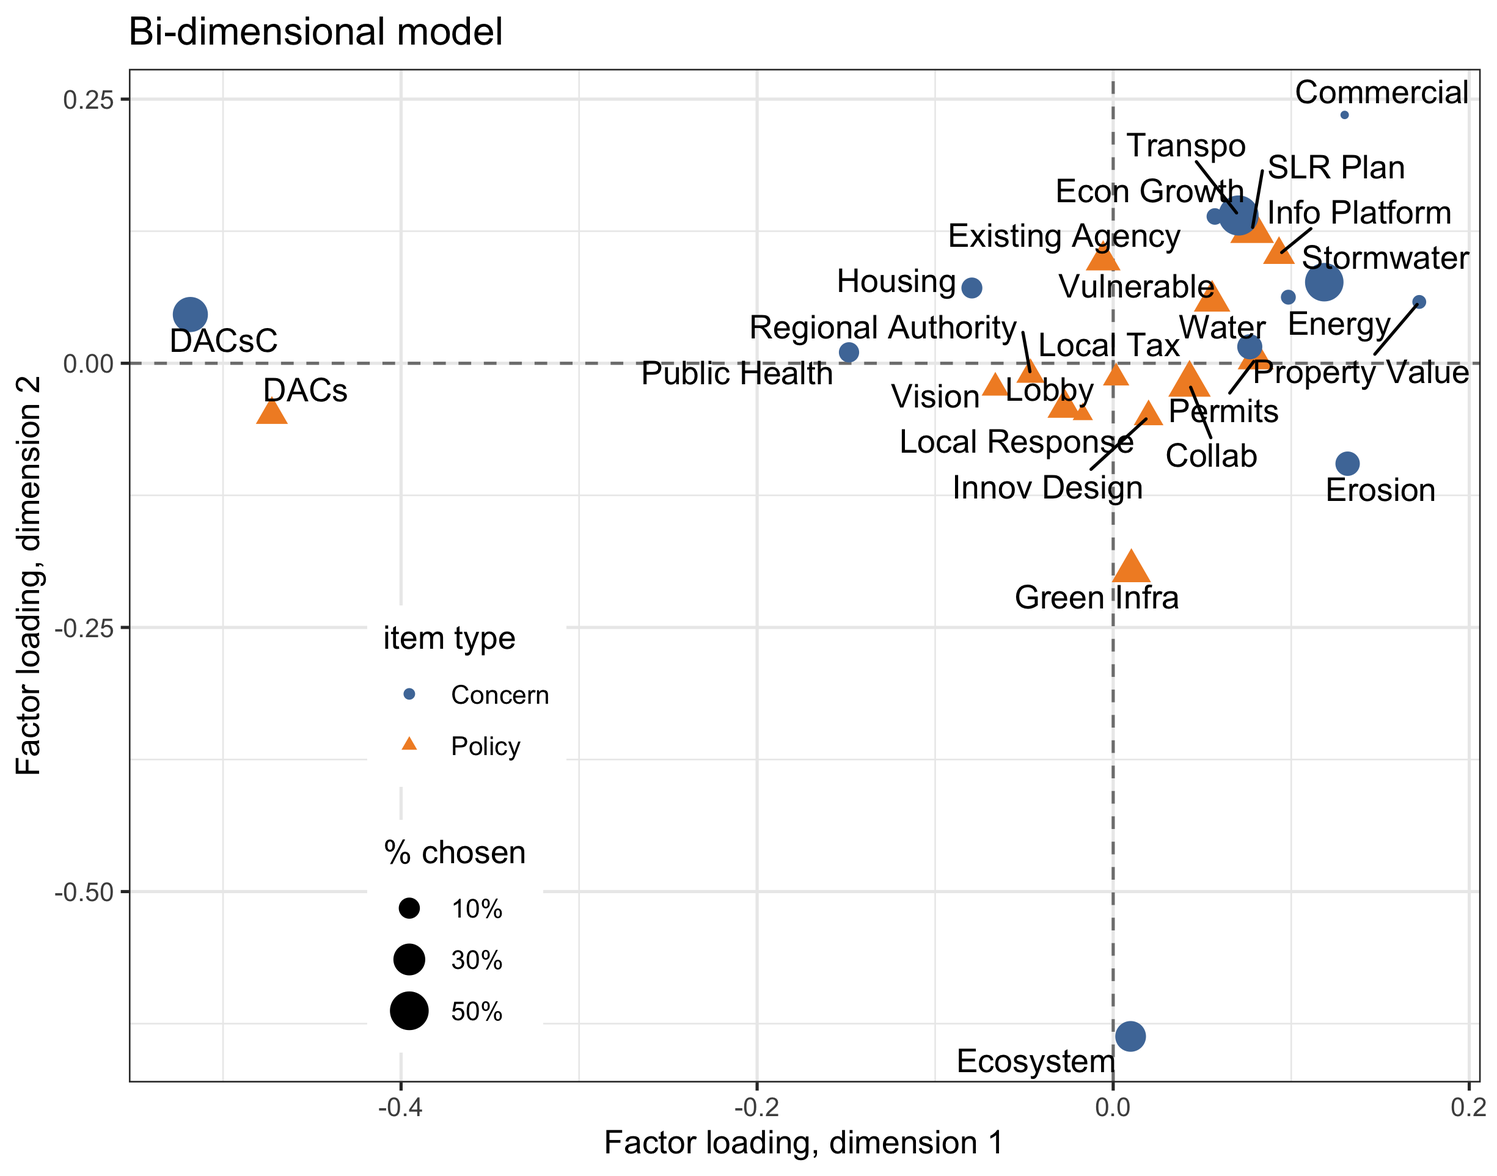
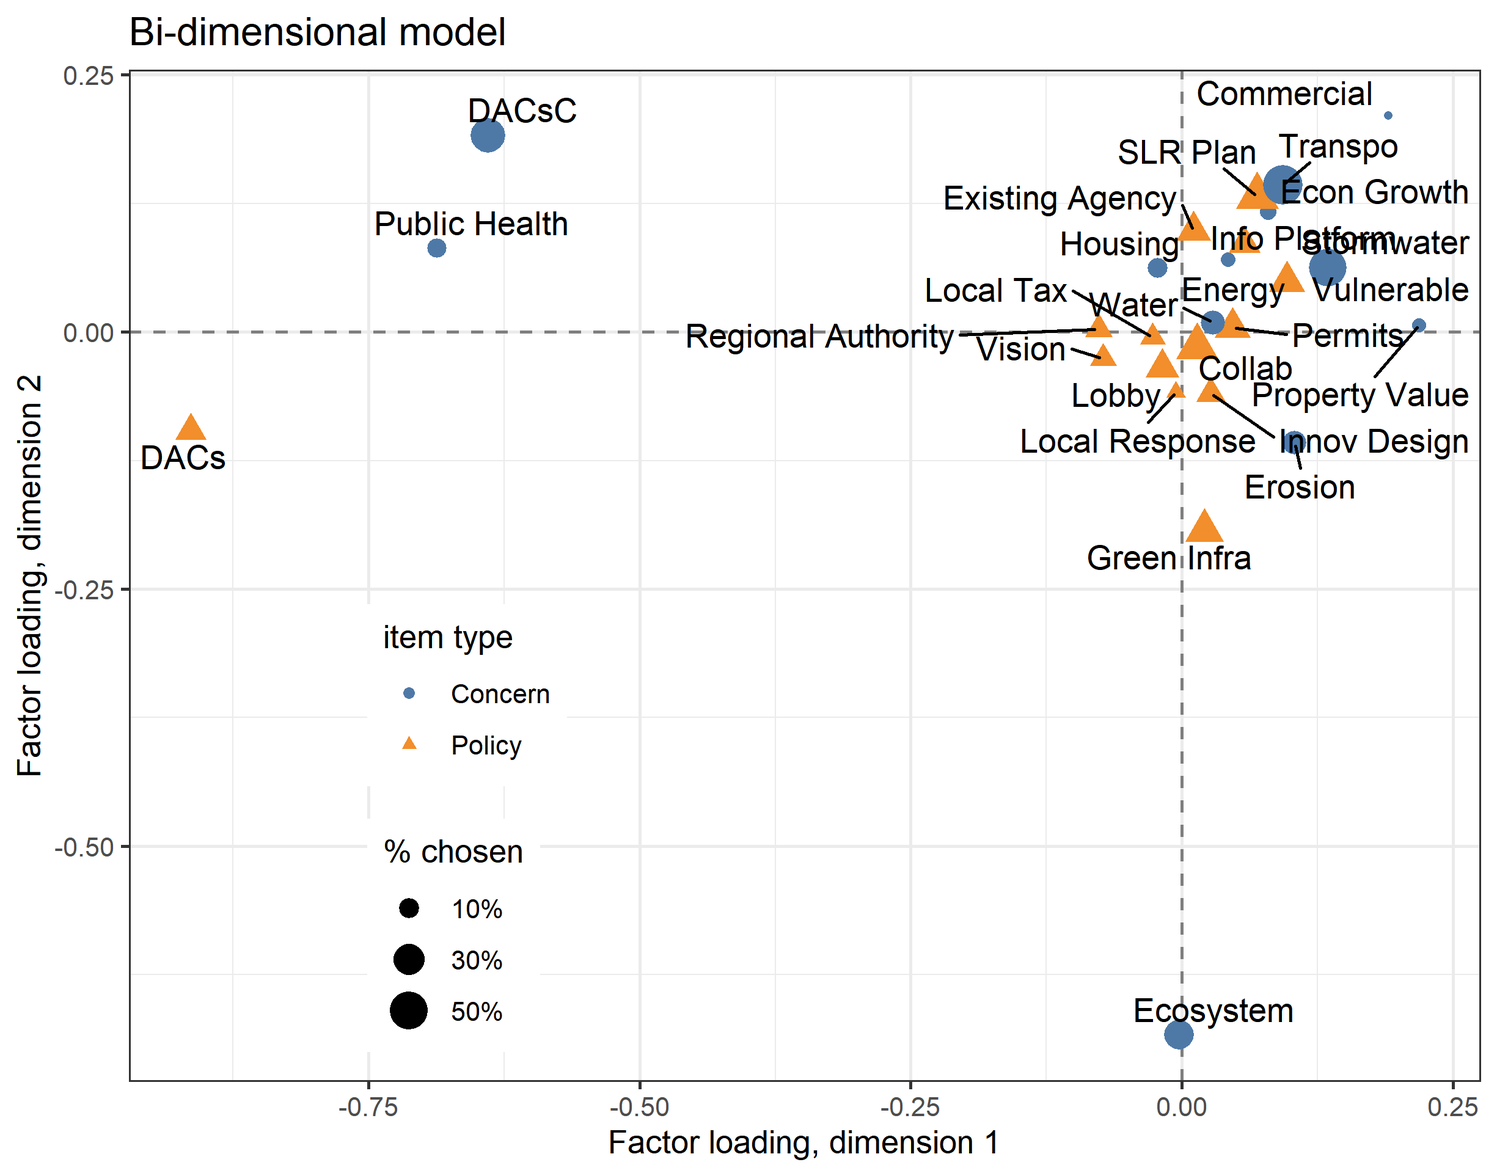
New SEM with 2 latent variables and all actor types

diff --git a/output/tables/sem_model_10-18.html b/output/tables/sem_model_10-18.html
@@ -1,0 +1,177 @@
+<table style="padding-right:20px;padding-left:20px;">
+<tr><td></td><td colspan = '4'; align = 'center'>Model</td></tr> 
+<tr><td></td><td colspan = '1'; align = 'center'>Estimate</td><td colspan = '1'; align = 'center'>Std. Err.</td><td colspan = '1'; align = 'center'>z</td><td colspan = '1'; align = 'center'>p</td></tr>
+<tr><td></td><td colspan = '4'; align = 'center'><span style="text-decoration: underline;">Factor Loadings</span></td></tr> <tr><td colspan = '1'; align = 'left'><span style="text-decoration: underline;">Engagement</span></td></tr>
+<tr><td>Q32.InfoTypes</td><td>1.00<sup>+</sup></td><td></td><td></td><td></td></tr>
+<tr><td>Q1.Focus</td><td>0.57</td><td>0.05</td><td>10.40</td><td>.000</td></tr>
+<tr><td>Q11.STAware</td><td>0.45</td><td>0.04</td><td>12.35</td><td>.000</td></tr>
+<tr><td>Q11.LTAware</td><td>0.43</td><td>0.04</td><td>12.18</td><td>.000</td></tr>
+<tr><td>Q19.Sum</td><td>1.05</td><td>0.10</td><td>10.50</td><td>.000</td></tr>
+ <tr><td colspan = '1'; align = 'left'><span style="text-decoration: underline;">Concern</span></td></tr>
+<tr><td>Q12.STConcern</td><td>1.00<sup>+</sup></td><td></td><td></td><td></td></tr>
+<tr><td>Q12.LTConcern</td><td>0.53</td><td>0.06</td><td>8.28</td><td>.000</td></tr>
+<tr><td>When.SLR</td><td>0.95</td><td>0.12</td><td>8.17</td><td>.000</td></tr>
+<tr><td></td><td colspan = '4'; align = 'center'><span style="text-decoration: underline;">Regression Slopes</span></td></tr> <tr><td colspan = '1'; align = 'left'><span style="text-decoration: underline;">F1</span></td></tr>
+<tr><td>Engagement</td><td>0.00</td><td>0.03</td><td>0.02</td><td>.980</td></tr>
+<tr><td>Concern</td><td>-0.24</td><td>0.08</td><td>-2.85</td><td>.004</td></tr>
+<tr><td>Q4.CBO</td><td>-0.88</td><td>0.32</td><td>-2.75</td><td>.006</td></tr>
+<tr><td>Q4.NGO</td><td>-0.45</td><td>0.12</td><td>-3.58</td><td>.000</td></tr>
+<tr><td>Q4.Fed</td><td>-0.08</td><td>0.19</td><td>-0.42</td><td>.674</td></tr>
+<tr><td>Q4.State</td><td>-0.21</td><td>0.14</td><td>-1.49</td><td>.137</td></tr>
+<tr><td>Q4.RegGov</td><td>0.08</td><td>0.21</td><td>0.38</td><td>.704</td></tr>
+<tr><td>Q4.EnviroSD</td><td>0.20</td><td>0.30</td><td>0.66</td><td>.506</td></tr>
+<tr><td>Q4.WaterSD</td><td>0.01</td><td>0.26</td><td>0.05</td><td>.960</td></tr>
+<tr><td>Q4.Ed</td><td>-0.20</td><td>0.12</td><td>-1.63</td><td>.104</td></tr>
+<tr><td>Q4.Multijuris</td><td>0.59</td><td>0.93</td><td>0.63</td><td>.526</td></tr>
+<tr><td>Q4.Multistake</td><td>-0.09</td><td>0.39</td><td>-0.23</td><td>.821</td></tr>
+<tr><td>Q4.Political</td><td>-0.48</td><td>0.93</td><td>-0.52</td><td>.605</td></tr>
+<tr><td>Q4.Trade</td><td>-0.05</td><td>0.18</td><td>-0.26</td><td>.793</td></tr>
+<tr><td>Q4.Enviro</td><td>-0.11</td><td>0.17</td><td>-0.64</td><td>.522</td></tr>
+<tr><td>OtherActorType</td><td>-0.06</td><td>0.11</td><td>-0.54</td><td>.591</td></tr>
+ <tr><td colspan = '1'; align = 'left'><span style="text-decoration: underline;">F2</span></td></tr>
+<tr><td>Engagement</td><td>-0.05</td><td>0.02</td><td>-2.38</td><td>.017</td></tr>
+<tr><td>Concern</td><td>-0.10</td><td>0.06</td><td>-1.68</td><td>.092</td></tr>
+<tr><td>Q4.CBO</td><td>-0.06</td><td>0.24</td><td>-0.25</td><td>.799</td></tr>
+<tr><td>Q4.NGO</td><td>-0.28</td><td>0.09</td><td>-3.02</td><td>.003</td></tr>
+<tr><td>Q4.Fed</td><td>-0.56</td><td>0.14</td><td>-3.95</td><td>.000</td></tr>
+<tr><td>Q4.State</td><td>0.05</td><td>0.11</td><td>0.48</td><td>.628</td></tr>
+<tr><td>Q4.RegGov</td><td>0.10</td><td>0.15</td><td>0.66</td><td>.509</td></tr>
+<tr><td>Q4.EnviroSD</td><td>-0.55</td><td>0.23</td><td>-2.42</td><td>.016</td></tr>
+<tr><td>Q4.WaterSD</td><td>-0.20</td><td>0.19</td><td>-1.01</td><td>.313</td></tr>
+<tr><td>Q4.Ed</td><td>-0.08</td><td>0.09</td><td>-0.88</td><td>.380</td></tr>
+<tr><td>Q4.Multijuris</td><td>0.04</td><td>0.69</td><td>0.06</td><td>.952</td></tr>
+<tr><td>Q4.Multistake</td><td>-0.05</td><td>0.29</td><td>-0.16</td><td>.873</td></tr>
+<tr><td>Q4.Political</td><td>0.53</td><td>0.69</td><td>0.76</td><td>.448</td></tr>
+<tr><td>Q4.Trade</td><td>-0.07</td><td>0.14</td><td>-0.52</td><td>.601</td></tr>
+<tr><td>Q4.Enviro</td><td>-0.17</td><td>0.13</td><td>-1.34</td><td>.180</td></tr>
+<tr><td>OtherActorType</td><td>-0.03</td><td>0.08</td><td>-0.42</td><td>.674</td></tr>
+<tr><td></td><td colspan = '4'; align = 'center'><span style="text-decoration: underline;">Residual Variances</span></td></tr>
+<tr><td>Q32.InfoTypes</td><td>6.65</td><td>0.38</td><td>17.58</td><td>.000</td></tr>
+<tr><td>Q1.Focus</td><td>1.45</td><td>0.08</td><td>17.04</td><td>.000</td></tr>
+<tr><td>Q11.STAware</td><td>0.17</td><td>0.02</td><td>9.59</td><td>.000</td></tr>
+<tr><td>Q11.LTAware</td><td>0.23</td><td>0.02</td><td>12.22</td><td>.000</td></tr>
+<tr><td>Q19.Sum</td><td>4.78</td><td>0.28</td><td>16.96</td><td>.000</td></tr>
+<tr><td>Q12.STConcern</td><td>0.34</td><td>0.04</td><td>8.01</td><td>.000</td></tr>
+<tr><td>Q12.LTConcern</td><td>0.25</td><td>0.02</td><td>14.14</td><td>.000</td></tr>
+<tr><td>When.SLR</td><td>0.91</td><td>0.06</td><td>14.80</td><td>.000</td></tr>
+<tr><td>F1</td><td>0.86</td><td>0.05</td><td>18.43</td><td>.000</td></tr>
+<tr><td>F2</td><td>0.48</td><td>0.03</td><td>18.56</td><td>.000</td></tr>
+<tr><td>Q4.CBO</td><td>0.01<sup>+</sup></td><td></td><td></td><td></td></tr>
+<tr><td>Q4.NGO</td><td>0.12<sup>+</sup></td><td></td><td></td><td></td></tr>
+<tr><td>Q4.Fed</td><td>0.04<sup>+</sup></td><td></td><td></td><td></td></tr>
+<tr><td>Q4.State</td><td>0.08<sup>+</sup></td><td></td><td></td><td></td></tr>
+<tr><td>Q4.RegGov</td><td>0.03<sup>+</sup></td><td></td><td></td><td></td></tr>
+<tr><td>Q4.EnviroSD</td><td>0.01<sup>+</sup></td><td></td><td></td><td></td></tr>
+<tr><td>Q4.WaterSD</td><td>0.02<sup>+</sup></td><td></td><td></td><td></td></tr>
+<tr><td>Q4.Ed</td><td>0.11<sup>+</sup></td><td></td><td></td><td></td></tr>
+<tr><td>Q4.Multijuris</td><td>0.00<sup>+</sup></td><td></td><td></td><td></td></tr>
+<tr><td>Q4.Multistake</td><td>0.01<sup>+</sup></td><td></td><td></td><td></td></tr>
+<tr><td>Q4.Political</td><td>0.00<sup>+</sup></td><td></td><td></td><td></td></tr>
+<tr><td>Q4.Trade</td><td>0.04<sup>+</sup></td><td></td><td></td><td></td></tr>
+<tr><td>Q4.Enviro</td><td>0.05<sup>+</sup></td><td></td><td></td><td></td></tr>
+<tr><td>OtherActorType</td><td>0.17<sup>+</sup></td><td></td><td></td><td></td></tr>
+<tr><td></td><td colspan = '4'; align = 'center'><span style="text-decoration: underline;">Residual Covariances</span></td></tr>
+<tr><td>F1 w/F2</td><td>-0.12</td><td>0.02</td><td>-4.64</td><td>.000</td></tr>
+<tr><td>Q4.CBO w/Q4.NGO</td><td>-0.00<sup>+</sup></td><td></td><td></td><td></td></tr>
+<tr><td>Q4.CBO w/Q4.Fed</td><td>-0.00<sup>+</sup></td><td></td><td></td><td></td></tr>
+<tr><td>Q4.CBO w/Q4.State</td><td>-0.00<sup>+</sup></td><td></td><td></td><td></td></tr>
+<tr><td>Q4.CBO w/Q4.RegGov</td><td>-0.00<sup>+</sup></td><td></td><td></td><td></td></tr>
+<tr><td>Q4.CBO w/Q4.EnviroSD</td><td>-0.00<sup>+</sup></td><td></td><td></td><td></td></tr>
+<tr><td>Q4.CBO w/Q4.WaterSD</td><td>-0.00<sup>+</sup></td><td></td><td></td><td></td></tr>
+<tr><td>Q4.CBO w/Q4.Ed</td><td>-0.00<sup>+</sup></td><td></td><td></td><td></td></tr>
+<tr><td>Q4.CBO w/Q4.Multijuris</td><td>-0.00<sup>+</sup></td><td></td><td></td><td></td></tr>
+<tr><td>Q4.CBO w/Q4.Multistake</td><td>-0.00<sup>+</sup></td><td></td><td></td><td></td></tr>
+<tr><td>Q4.CBO w/Q4.Political</td><td>-0.00<sup>+</sup></td><td></td><td></td><td></td></tr>
+<tr><td>Q4.CBO w/Q4.Trade</td><td>-0.00<sup>+</sup></td><td></td><td></td><td></td></tr>
+<tr><td>Q4.CBO w/Q4.Enviro</td><td>-0.00<sup>+</sup></td><td></td><td></td><td></td></tr>
+<tr><td>Q4.CBO w/OtherActorType</td><td>-0.00<sup>+</sup></td><td></td><td></td><td></td></tr>
+<tr><td>Q4.NGO w/Q4.Fed</td><td>-0.01<sup>+</sup></td><td></td><td></td><td></td></tr>
+<tr><td>Q4.NGO w/Q4.State</td><td>-0.01<sup>+</sup></td><td></td><td></td><td></td></tr>
+<tr><td>Q4.NGO w/Q4.RegGov</td><td>-0.00<sup>+</sup></td><td></td><td></td><td></td></tr>
+<tr><td>Q4.NGO w/Q4.EnviroSD</td><td>-0.00<sup>+</sup></td><td></td><td></td><td></td></tr>
+<tr><td>Q4.NGO w/Q4.WaterSD</td><td>-0.00<sup>+</sup></td><td></td><td></td><td></td></tr>
+<tr><td>Q4.NGO w/Q4.Ed</td><td>-0.02<sup>+</sup></td><td></td><td></td><td></td></tr>
+<tr><td>Q4.NGO w/Q4.Multijuris</td><td>-0.00<sup>+</sup></td><td></td><td></td><td></td></tr>
+<tr><td>Q4.NGO w/Q4.Multistake</td><td>-0.00<sup>+</sup></td><td></td><td></td><td></td></tr>
+<tr><td>Q4.NGO w/Q4.Political</td><td>-0.00<sup>+</sup></td><td></td><td></td><td></td></tr>
+<tr><td>Q4.NGO w/Q4.Trade</td><td>-0.01<sup>+</sup></td><td></td><td></td><td></td></tr>
+<tr><td>Q4.NGO w/Q4.Enviro</td><td>-0.01<sup>+</sup></td><td></td><td></td><td></td></tr>
+<tr><td>Q4.NGO w/OtherActorType</td><td>-0.03<sup>+</sup></td><td></td><td></td><td></td></tr>
+<tr><td>Q4.Fed w/Q4.State</td><td>-0.00<sup>+</sup></td><td></td><td></td><td></td></tr>
+<tr><td>Q4.Fed w/Q4.RegGov</td><td>-0.00<sup>+</sup></td><td></td><td></td><td></td></tr>
+<tr><td>Q4.Fed w/Q4.EnviroSD</td><td>-0.00<sup>+</sup></td><td></td><td></td><td></td></tr>
+<tr><td>Q4.Fed w/Q4.WaterSD</td><td>-0.00<sup>+</sup></td><td></td><td></td><td></td></tr>
+<tr><td>Q4.Fed w/Q4.Ed</td><td>-0.01<sup>+</sup></td><td></td><td></td><td></td></tr>
+<tr><td>Q4.Fed w/Q4.Multijuris</td><td>-0.00<sup>+</sup></td><td></td><td></td><td></td></tr>
+<tr><td>Q4.Fed w/Q4.Multistake</td><td>-0.00<sup>+</sup></td><td></td><td></td><td></td></tr>
+<tr><td>Q4.Fed w/Q4.Political</td><td>-0.00<sup>+</sup></td><td></td><td></td><td></td></tr>
+<tr><td>Q4.Fed w/Q4.Trade</td><td>-0.00<sup>+</sup></td><td></td><td></td><td></td></tr>
+<tr><td>Q4.Fed w/Q4.Enviro</td><td>-0.00<sup>+</sup></td><td></td><td></td><td></td></tr>
+<tr><td>Q4.Fed w/OtherActorType</td><td>-0.01<sup>+</sup></td><td></td><td></td><td></td></tr>
+<tr><td>Q4.State w/Q4.RegGov</td><td>-0.00<sup>+</sup></td><td></td><td></td><td></td></tr>
+<tr><td>Q4.State w/Q4.EnviroSD</td><td>-0.00<sup>+</sup></td><td></td><td></td><td></td></tr>
+<tr><td>Q4.State w/Q4.WaterSD</td><td>-0.00<sup>+</sup></td><td></td><td></td><td></td></tr>
+<tr><td>Q4.State w/Q4.Ed</td><td>-0.01<sup>+</sup></td><td></td><td></td><td></td></tr>
+<tr><td>Q4.State w/Q4.Multijuris</td><td>-0.00<sup>+</sup></td><td></td><td></td><td></td></tr>
+<tr><td>Q4.State w/Q4.Multistake</td><td>-0.00<sup>+</sup></td><td></td><td></td><td></td></tr>
+<tr><td>Q4.State w/Q4.Political</td><td>-0.00<sup>+</sup></td><td></td><td></td><td></td></tr>
+<tr><td>Q4.State w/Q4.Trade</td><td>-0.00<sup>+</sup></td><td></td><td></td><td></td></tr>
+<tr><td>Q4.State w/Q4.Enviro</td><td>-0.00<sup>+</sup></td><td></td><td></td><td></td></tr>
+<tr><td>Q4.State w/OtherActorType</td><td>-0.02<sup>+</sup></td><td></td><td></td><td></td></tr>
+<tr><td>Q4.RegGov w/Q4.EnviroSD</td><td>-0.00<sup>+</sup></td><td></td><td></td><td></td></tr>
+<tr><td>Q4.RegGov w/Q4.WaterSD</td><td>-0.00<sup>+</sup></td><td></td><td></td><td></td></tr>
+<tr><td>Q4.RegGov w/Q4.Ed</td><td>-0.00<sup>+</sup></td><td></td><td></td><td></td></tr>
+<tr><td>Q4.RegGov w/Q4.Multijuris</td><td>-0.00<sup>+</sup></td><td></td><td></td><td></td></tr>
+<tr><td>Q4.RegGov w/Q4.Multistake</td><td>-0.00<sup>+</sup></td><td></td><td></td><td></td></tr>
+<tr><td>Q4.RegGov w/Q4.Political</td><td>-0.00<sup>+</sup></td><td></td><td></td><td></td></tr>
+<tr><td>Q4.RegGov w/Q4.Trade</td><td>-0.00<sup>+</sup></td><td></td><td></td><td></td></tr>
+<tr><td>Q4.RegGov w/Q4.Enviro</td><td>-0.00<sup>+</sup></td><td></td><td></td><td></td></tr>
+<tr><td>Q4.RegGov w/OtherActorType</td><td>-0.01<sup>+</sup></td><td></td><td></td><td></td></tr>
+<tr><td>Q4.EnviroSD w/Q4.WaterSD</td><td>-0.00<sup>+</sup></td><td></td><td></td><td></td></tr>
+<tr><td>Q4.EnviroSD w/Q4.Ed</td><td>-0.00<sup>+</sup></td><td></td><td></td><td></td></tr>
+<tr><td>Q4.EnviroSD w/Q4.Multijuris</td><td>-0.00<sup>+</sup></td><td></td><td></td><td></td></tr>
+<tr><td>Q4.EnviroSD w/Q4.Multistake</td><td>-0.00<sup>+</sup></td><td></td><td></td><td></td></tr>
+<tr><td>Q4.EnviroSD w/Q4.Political</td><td>-0.00<sup>+</sup></td><td></td><td></td><td></td></tr>
+<tr><td>Q4.EnviroSD w/Q4.Trade</td><td>-0.00<sup>+</sup></td><td></td><td></td><td></td></tr>
+<tr><td>Q4.EnviroSD w/Q4.Enviro</td><td>-0.00<sup>+</sup></td><td></td><td></td><td></td></tr>
+<tr><td>Q4.EnviroSD w/OtherActorType</td><td>-0.00<sup>+</sup></td><td></td><td></td><td></td></tr>
+<tr><td>Q4.WaterSD w/Q4.Ed</td><td>-0.00<sup>+</sup></td><td></td><td></td><td></td></tr>
+<tr><td>Q4.WaterSD w/Q4.Multijuris</td><td>-0.00<sup>+</sup></td><td></td><td></td><td></td></tr>
+<tr><td>Q4.WaterSD w/Q4.Multistake</td><td>-0.00<sup>+</sup></td><td></td><td></td><td></td></tr>
+<tr><td>Q4.WaterSD w/Q4.Political</td><td>-0.00<sup>+</sup></td><td></td><td></td><td></td></tr>
+<tr><td>Q4.WaterSD w/Q4.Trade</td><td>-0.00<sup>+</sup></td><td></td><td></td><td></td></tr>
+<tr><td>Q4.WaterSD w/Q4.Enviro</td><td>-0.00<sup>+</sup></td><td></td><td></td><td></td></tr>
+<tr><td>Q4.WaterSD w/OtherActorType</td><td>-0.00<sup>+</sup></td><td></td><td></td><td></td></tr>
+<tr><td>Q4.Ed w/Q4.Multijuris</td><td>-0.00<sup>+</sup></td><td></td><td></td><td></td></tr>
+<tr><td>Q4.Ed w/Q4.Multistake</td><td>-0.00<sup>+</sup></td><td></td><td></td><td></td></tr>
+<tr><td>Q4.Ed w/Q4.Political</td><td>-0.00<sup>+</sup></td><td></td><td></td><td></td></tr>
+<tr><td>Q4.Ed w/Q4.Trade</td><td>-0.01<sup>+</sup></td><td></td><td></td><td></td></tr>
+<tr><td>Q4.Ed w/Q4.Enviro</td><td>-0.01<sup>+</sup></td><td></td><td></td><td></td></tr>
+<tr><td>Q4.Ed w/OtherActorType</td><td>-0.03<sup>+</sup></td><td></td><td></td><td></td></tr>
+<tr><td>Q4.Multijuris w/Q4.Multistake</td><td>-0.00<sup>+</sup></td><td></td><td></td><td></td></tr>
+<tr><td>Q4.Multijuris w/Q4.Political</td><td>-0.00<sup>+</sup></td><td></td><td></td><td></td></tr>
+<tr><td>Q4.Multijuris w/Q4.Trade</td><td>-0.00<sup>+</sup></td><td></td><td></td><td></td></tr>
+<tr><td>Q4.Multijuris w/Q4.Enviro</td><td>-0.00<sup>+</sup></td><td></td><td></td><td></td></tr>
+<tr><td>Q4.Multijuris w/OtherActorType</td><td>-0.00<sup>+</sup></td><td></td><td></td><td></td></tr>
+<tr><td>Q4.Multistake w/Q4.Political</td><td>-0.00<sup>+</sup></td><td></td><td></td><td></td></tr>
+<tr><td>Q4.Multistake w/Q4.Trade</td><td>-0.00<sup>+</sup></td><td></td><td></td><td></td></tr>
+<tr><td>Q4.Multistake w/Q4.Enviro</td><td>-0.00<sup>+</sup></td><td></td><td></td><td></td></tr>
+<tr><td>Q4.Multistake w/OtherActorType</td><td>-0.00<sup>+</sup></td><td></td><td></td><td></td></tr>
+<tr><td>Q4.Political w/Q4.Trade</td><td>-0.00<sup>+</sup></td><td></td><td></td><td></td></tr>
+<tr><td>Q4.Political w/Q4.Enviro</td><td>-0.00<sup>+</sup></td><td></td><td></td><td></td></tr>
+<tr><td>Q4.Political w/OtherActorType</td><td>-0.00<sup>+</sup></td><td></td><td></td><td></td></tr>
+<tr><td>Q4.Trade w/Q4.Enviro</td><td>-0.00<sup>+</sup></td><td></td><td></td><td></td></tr>
+<tr><td>Q4.Trade w/OtherActorType</td><td>-0.01<sup>+</sup></td><td></td><td></td><td></td></tr>
+<tr><td>Q4.Enviro w/OtherActorType</td><td>-0.01<sup>+</sup></td><td></td><td></td><td></td></tr>
+<tr><td></td><td colspan = '4'; align = 'center'><span style="text-decoration: underline;">Latent Variances</span></td></tr>
+<tr><td>Engagement</td><td>2.10</td><td>0.33</td><td>6.36</td><td>.000</td></tr>
+<tr><td>Concern</td><td>0.35</td><td>0.05</td><td>6.98</td><td>.000</td></tr>
+<tr><td></td><td colspan = '4'; align = 'center'><span style="text-decoration: underline;">Latent Covariances</span></td></tr>
+<tr><td>Engagement w/Concern</td><td>0.30</td><td>0.05</td><td>5.67</td><td>.000</td></tr>
+<tr><td></td><td colspan = '4'; align = 'center'><span style="text-decoration: underline;">Fit Indices</span></td></tr>
+<tr><td>&chi;<sup>2</sup></td><td>505.08(143)</td><td></td><td></td><td>.000</td></tr>
+<tr><td>CFI</td><td>0.79</td><td></td><td></td><td></td></tr>
+<tr><td>TLI</td><td>0.72</td><td></td><td></td><td></td></tr>
+<tr><td>RMSEA</td><td>0.06</td><td></td><td></td><td></td></tr>
+<tr><td colspan = '5'; align = 'left'><sup>+</sup>Fixed parameter</td></tr>
+</table><br>

diff --git a/output/tables/correlation_tests.html b/output/tables/correlation_tests.html
@@ -1,39 +1,40 @@
 
 <table style="text-align:center"><tr><td colspan="4" style="border-bottom: 1px solid black"></td></tr><tr><td style="text-align:left"></td><td>item</td><td>F1</td><td>F2</td></tr>
-<tr><td colspan="4" style="border-bottom: 1px solid black"></td></tr><tr><td style="text-align:left">1</td><td>Q1_Focus</td><td>-0.048</td><td>-0.027</td></tr>
-<tr><td style="text-align:left">2</td><td>Q16_Risk_Agree</td><td>-0.029</td><td>-0.039</td></tr>
-<tr><td style="text-align:left">3</td><td>Q17_Action_Agree</td><td>0.038</td><td>-0.018</td></tr>
-<tr><td style="text-align:left">4</td><td>Q4_Fed</td><td>0.037</td><td>-0.1*</td></tr>
-<tr><td style="text-align:left">5</td><td>Q4_State</td><td>-0.024</td><td>0.031</td></tr>
-<tr><td style="text-align:left">6</td><td>Q4_RegGov</td><td>0.03</td><td>0.059</td></tr>
-<tr><td style="text-align:left">7</td><td>Q4_LocalGov</td><td>0.076*</td><td>0.067*</td></tr>
-<tr><td style="text-align:left">8</td><td>Q4_WaterSD</td><td>0.102*</td><td>-0.014</td></tr>
+<tr><td colspan="4" style="border-bottom: 1px solid black"></td></tr><tr><td style="text-align:left">1</td><td>Q1_Focus</td><td>-0.047</td><td>-0.034</td></tr>
+<tr><td style="text-align:left">2</td><td>Q16_Risk_Agree</td><td>-0.028</td><td>-0.029</td></tr>
+<tr><td style="text-align:left">3</td><td>Q17_Action_Agree</td><td>0.021</td><td>-0.008</td></tr>
+<tr><td style="text-align:left">4</td><td>Q4_Fed</td><td>0000</td><td>-0.095*</td></tr>
+<tr><td style="text-align:left">5</td><td>Q4_State</td><td>-0.027</td><td>0.039</td></tr>
+<tr><td style="text-align:left">6</td><td>Q4_RegGov</td><td>0.047</td><td>0.054</td></tr>
+<tr><td style="text-align:left">7</td><td>Q4_LocalGov</td><td>0.085*</td><td>0.051</td></tr>
+<tr><td style="text-align:left">8</td><td>Q4_WaterSD</td><td>0.056</td><td>-0.01</td></tr>
 <tr><td style="text-align:left">9</td><td>Q4_EnviroSD</td><td>0.029</td><td>-0.063*</td></tr>
-<tr><td style="text-align:left">10</td><td>Q4_Enviro</td><td>-0.004</td><td>-0.028</td></tr>
-<tr><td style="text-align:left">11</td><td>Q4_Trade</td><td>-0.013</td><td>0.007</td></tr>
-<tr><td style="text-align:left">12</td><td>Q4_Ed</td><td>-0.058</td><td>0.018</td></tr>
-<tr><td style="text-align:left">13</td><td>Q4_Multistake</td><td>-0.027</td><td>0.008</td></tr>
-<tr><td style="text-align:left">14</td><td>Q4_Multijuris</td><td>0.011</td><td>0.001</td></tr>
-<tr><td style="text-align:left">15</td><td>Q4_Political</td><td>-0.028</td><td>0.04</td></tr>
-<tr><td style="text-align:left">16</td><td>Q4_CBO</td><td>-0.074*</td><td>-0.001</td></tr>
-<tr><td style="text-align:left">17</td><td>Q4_NGO</td><td>-0.127*</td><td>-0.086*</td></tr>
-<tr><td style="text-align:left">18</td><td>Q8_JobTasks</td><td>-0.078*</td><td>0.013</td></tr>
-<tr><td style="text-align:left">19</td><td>Q32_InfoTypes</td><td>-0.026</td><td>-0.072*</td></tr>
-<tr><td style="text-align:left">20</td><td>Q11_STAware</td><td>-0.001</td><td>-0.061*</td></tr>
-<tr><td style="text-align:left">21</td><td>Q11_LTAware</td><td>-0.043</td><td>-0.039</td></tr>
-<tr><td style="text-align:left">22</td><td>Q12_STConcern</td><td>-0.106*</td><td>-0.071*</td></tr>
-<tr><td style="text-align:left">23</td><td>Q12_LTConcern</td><td>-0.11*</td><td>-0.014</td></tr>
-<tr><td style="text-align:left">24</td><td>Q20_HumRes</td><td>-0.046</td><td>0.031</td></tr>
-<tr><td style="text-align:left">25</td><td>Q20_FinRes</td><td>-0.028</td><td>0.002</td></tr>
-<tr><td style="text-align:left">26</td><td>Q20_ExpCollab</td><td>0.007</td><td>0.004</td></tr>
-<tr><td style="text-align:left">27</td><td>Q20_StakeOpp</td><td>0.056</td><td>-0.077*</td></tr>
-<tr><td style="text-align:left">28</td><td>Q20_PolLead</td><td>-0.02</td><td>-0.04</td></tr>
-<tr><td style="text-align:left">29</td><td>Q20_SLRUncertain</td><td>0.067*</td><td>0.051</td></tr>
-<tr><td style="text-align:left">30</td><td>Q20_SciInfo</td><td>0.055</td><td>0.007</td></tr>
-<tr><td style="text-align:left">31</td><td>Q20_OrgLead</td><td>-0.05</td><td>-0.013</td></tr>
-<tr><td style="text-align:left">32</td><td>Q20_OverallPlan</td><td>0.042</td><td>0.067*</td></tr>
-<tr><td style="text-align:left">33</td><td>Q20_Permits</td><td>0.119*</td><td>-0.089*</td></tr>
-<tr><td style="text-align:left">34</td><td>Q20_PubSupport</td><td>0.018</td><td>-0.011</td></tr>
-<tr><td style="text-align:left">35</td><td>Q20_CBORelation</td><td>-0.124*</td><td>0.037</td></tr>
-<tr><td style="text-align:left">36</td><td>Q20_Sum</td><td>0.029</td><td>0.01</td></tr>
+<tr><td style="text-align:left">10</td><td>Q4_Enviro</td><td>-0.017</td><td>-0.03</td></tr>
+<tr><td style="text-align:left">11</td><td>Q4_Trade</td><td>0.003</td><td>0.002</td></tr>
+<tr><td style="text-align:left">12</td><td>Q4_Ed</td><td>-0.03</td><td>0.009</td></tr>
+<tr><td style="text-align:left">13</td><td>Q4_Multistake</td><td>-0.009</td><td>0.005</td></tr>
+<tr><td style="text-align:left">14</td><td>Q4_Multijuris</td><td>0.027</td><td>-0.004</td></tr>
+<tr><td style="text-align:left">15</td><td>Q4_Political</td><td>-0.012</td><td>0.043</td></tr>
+<tr><td style="text-align:left">16</td><td>Q4_CBO</td><td>-0.079*</td><td>0.003</td></tr>
+<tr><td style="text-align:left">17</td><td>Q4_NGO</td><td>-0.128*</td><td>-0.075*</td></tr>
+<tr><td style="text-align:left">18</td><td>Q8_JobTasks</td><td>-0.069*</td><td>0.013</td></tr>
+<tr><td style="text-align:left">19</td><td>Q32_InfoTypes</td><td>-0.033</td><td>-0.07*</td></tr>
+<tr><td style="text-align:left">20</td><td>Q11_STAware</td><td>-0.006</td><td>-0.062*</td></tr>
+<tr><td style="text-align:left">21</td><td>Q11_LTAware</td><td>-0.043</td><td>-0.044</td></tr>
+<tr><td style="text-align:left">22</td><td>Q12_STConcern</td><td>-0.108*</td><td>-0.059*</td></tr>
+<tr><td style="text-align:left">23</td><td>Q12_LTConcern</td><td>-0.101*</td><td>-0.008</td></tr>
+<tr><td style="text-align:left">24</td><td>Q20_HumRes</td><td>-0.041</td><td>0.03</td></tr>
+<tr><td style="text-align:left">25</td><td>Q20_FinRes</td><td>-0.01</td><td>-0.007</td></tr>
+<tr><td style="text-align:left">26</td><td>Q20_ExpCollab</td><td>0.003</td><td>0.011</td></tr>
+<tr><td style="text-align:left">27</td><td>Q20_StakeOpp</td><td>0.018</td><td>-0.067*</td></tr>
+<tr><td style="text-align:left">28</td><td>Q20_PolLead</td><td>-0.021</td><td>-0.03</td></tr>
+<tr><td style="text-align:left">29</td><td>Q20_SLRUncertain</td><td>0.075*</td><td>0.042</td></tr>
+<tr><td style="text-align:left">30</td><td>Q20_SciInfo</td><td>0.061*</td><td>-0.017</td></tr>
+<tr><td style="text-align:left">31</td><td>Q20_OrgLead</td><td>-0.037</td><td>-0.021</td></tr>
+<tr><td style="text-align:left">32</td><td>Q20_OverallPlan</td><td>0.056</td><td>0.059</td></tr>
+<tr><td style="text-align:left">33</td><td>Q20_Permits</td><td>0.08*</td><td>-0.095*</td></tr>
+<tr><td style="text-align:left">34</td><td>Q20_PubSupport</td><td>-0.006</td><td>0.013</td></tr>
+<tr><td style="text-align:left">35</td><td>Q20_CBORelation</td><td>-0.121*</td><td>0.039</td></tr>
+<tr><td style="text-align:left">36</td><td>Q20_Sum</td><td>0.027</td><td>0.008</td></tr>
+<tr><td style="text-align:left">37</td><td>Q19_Sum</td><td>-0.085*</td><td>-0.048</td></tr>
 <tr><td colspan="4" style="border-bottom: 1px solid black"></td></tr></table>
